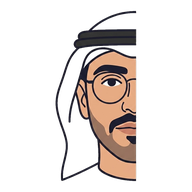
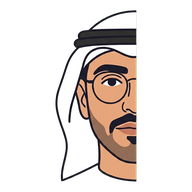
fix(brand): chroma-key the green source so the ghutra stays opaque white
The user re-exported the logo art on a chroma-key green background, which
removes the root problem rather than working around it.

Keying green instead of white is the whole point: the ghutra is white
cloth, and white-keying left it as transparent negative space that read as
paper on a light ground and vanished on a dark one. Green-keying keeps the
cloth opaque, so the mark needs no backing on either ground.

Alpha ramps over a soft band so anti-aliased edges do not stair-step, and a
despill pass pulls the green channel down to the brighter of red and blue
wherever it overshoots, removing the edge fringe. Measured on the output:
zero residual greenness on any opaque pixel, and opaque near-white pixels
rise from 2,987 to 73,576 as the cloth becomes real white.

Drops the --plate token and the nav backing added in a40d8d9; both existed
only to compensate for the transparent cloth.

diff --git a/css/layout.css b/css/layout.css
@@ -33,13 +33,12 @@
 }
 /* The mark is a half-face: tall and narrow. Set its height and let the
    width follow, rather than forcing a square box and paying for the empty
-   columns either side. */
+   columns either side. The artwork is keyed from a chroma-green source, so
+   the ghutra stays opaque white and the mark needs no backing on either
+   ground. */
 .nav-mark-icon {
   height: 2.25rem;
   width: auto;
-  background: var(--plate);
-  border-radius: 3px;
-  padding: 0 2px;
 }
 .nav-mark-name { white-space: nowrap; }
 

diff --git a/css/tokens.css b/css/tokens.css
@@ -46,9 +46,6 @@
   --accent: #a85a32;
   --accent-strong: #8f4a2c;
   --rule: #e2e2df;
-  /* Backing for artwork whose own white is transparent negative space.
-     None is needed on a light ground; see css/layout.css .nav-mark-icon. */
-  --plate: transparent;
 }
 
 [data-theme="dark"] {
@@ -59,7 +56,6 @@
   --accent: #e7ad87;
   --accent-strong: #f3cbb0;
   --rule: #2a2d3a;
-  --plate: #fafaf9;
 }
 
 /* The page is rendered by JavaScript, so js/theme.js always sets

diff --git a/tools/process_brand.py b/tools/process_brand.py
@@ -1,41 +1,57 @@
 # tools/process_brand.py
-"""Key the flat-white background out of the logo art and emit brand marks.
+"""Key the chroma-green background out of the logo art and emit brand marks.
 
 Run from the repository root:  python tools/process_brand.py
 """
 from pathlib import Path
 
 import numpy as np
-from PIL import Image, ImageDraw, ImageFilter
+from PIL import Image
 
 ROOT = Path(__file__).resolve().parent.parent
 BRAND = ROOT / "assets" / "brand"
 ASSETS = ROOT / "assets"
 
-SENTINEL = (255, 0, 255)
 GROUND = (250, 250, 249)  # --ground, for the opaque Apple touch icon
 
+# The source art is drawn on a chroma-key green. Keying green rather than
+# white matters: the ghutra is WHITE cloth, and an earlier white-keyed
+# version left it as transparent negative space, which read as paper on a
+# light ground and vanished on a dark one. Keying green keeps the cloth
+# opaque, so the mark works on any background with no plate behind it.
+KEY_RGB = np.array([11, 248, 6], dtype=float)
 
-def key_background(path, thresh=30, feather=0.8):
-    """Remove background white reachable from the border, keeping enclosed white."""
+
+def key_green(path, tol=110.0, soft=60.0, despill=True):
+    """Remove the chroma-key green background, keeping white cloth opaque.
+
+    Alpha ramps from 0 for pixels within `tol` of the key colour to 255 at
+    `tol + soft`, so anti-aliased edges keep a soft transition instead of a
+    hard stair-step. Distance is measured with the green channel weighted
+    down, so a pixel is judged green by how far its red and blue sit below
+    green rather than by absolute brightness — that keeps the white cloth
+    (high in all three channels) far from the key even though it is bright.
+    """
     im = Image.open(path).convert("RGB")
-    w, h = im.size
-    for seed in ((0, 0), (w - 1, 0), (0, h - 1), (w - 1, h - 1)):
-        ImageDraw.floodfill(im, seed, SENTINEL, thresh=thresh)
+    arr = np.array(im).astype(float)
+    r, g, b = arr[:, :, 0], arr[:, :, 1], arr[:, :, 2]
 
-    arr = np.array(im)
-    mask = np.all(arr == np.array(SENTINEL, dtype=arr.dtype), axis=-1)
+    # Greenness: how much green exceeds the stronger of red and blue.
+    greenness = g - np.maximum(r, b)
+    dist = np.clip(tol - greenness, 0, None)
+    alpha = np.clip(dist / soft, 0, 1) * 255
 
-    # Repaint sentinel pixels white so feathering cannot bleed magenta inward.
-    arr[mask] = (255, 255, 255)
+    if despill:
+        # Anti-aliased edge pixels carry a green fringe. Pull green down to
+        # the brighter of red and blue wherever it overshoots, which removes
+        # the fringe without touching genuinely green-free colour.
+        cap = np.maximum(r, b)
+        overshoot = g > cap
+        g = np.where(overshoot, cap, g)
+        arr[:, :, 1] = g
 
-    alpha = Image.fromarray(np.where(mask, 0, 255).astype("uint8"))
-    if feather:
-        alpha = alpha.filter(ImageFilter.GaussianBlur(feather))
-
-    out = Image.fromarray(arr).convert("RGBA")
-    out.putalpha(alpha)
-    return out
+    out = np.dstack([arr, alpha]).astype("uint8")
+    return Image.fromarray(out, "RGBA")
 
 
 def trim(im):
@@ -63,10 +79,10 @@ def center_square(im, pad_ratio=0.06):
 
 
 def main():
-    icon = center_square(key_background(BRAND / "logo-icon-source.jpg"))
+    icon = center_square(key_green(BRAND / "logo-icon-source.jpg"))
     icon.save(BRAND / "logo-icon.png")
 
-    wordmark = trim(key_background(BRAND / "logo-wordmark-source.jpg"))
+    wordmark = trim(key_green(BRAND / "logo-wordmark-source.jpg"))
     wordmark.save(BRAND / "logo-wordmark.png")
 
     for name, size in (
